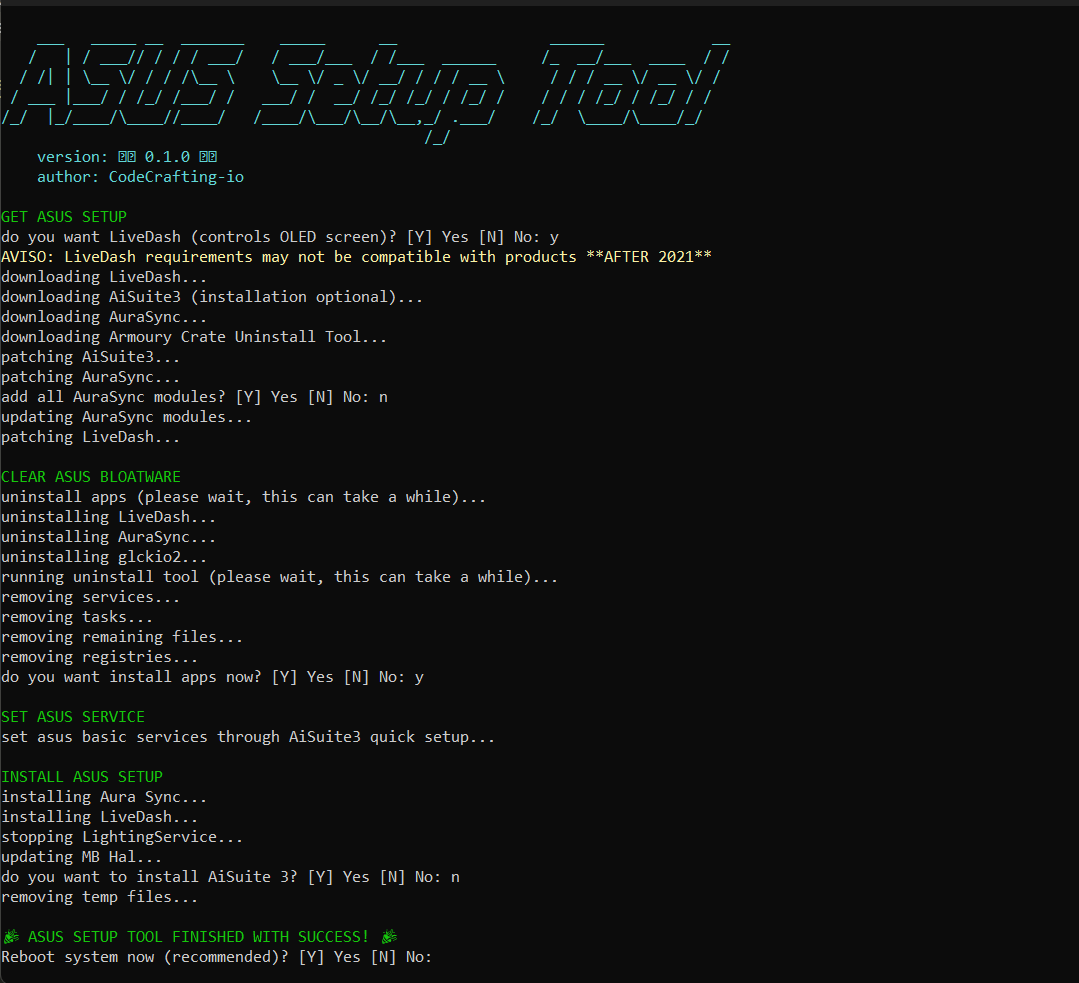
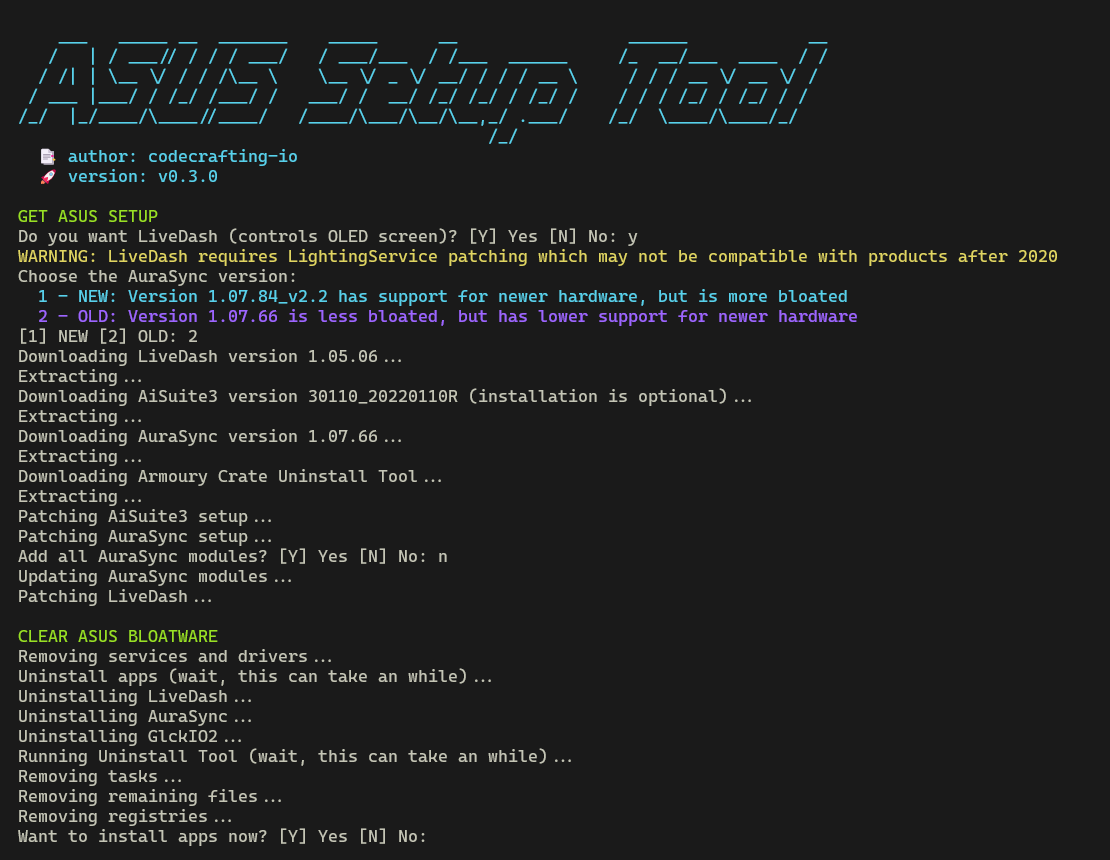
Update README docs and add optional setup for AuraSync

Changed region(s): [[0.0, 0.0302, 0.9481, 0.9977], [0.5505, 0.0302, 0.734, 0.1512]]

diff --git a/README.md b/README.md
@@ -5,7 +5,7 @@
 [![GitHub Release](https://img.shields.io/github/v/tag/codecrafting-io/asus-setup-tool?label=version)](https://github.com/codecrafting-io/asus-setup-tool/releases)
 [![Issues](https://img.shields.io/github/issues/codecrafting-io/asus-setup-tool)](https://github.com/codecrafting-io/asus-setup-tool/issues)
 
-This is an PowerShell script tool that manages the setup installation for the legacy [Aura Sync](https://www.ASUS.com/campaign/aura), LiveDash, [AiSuite3](https://www.youtube.com/watch?v=MVS2Bx8Uofg), to FINNALY resolve installation errors on Windows 11. With this tool, you will:
+This is an PowerShell script tool that manages the setup installation for the legacy [Aura Sync](https://www.ASUS.com/campaign/aura), LiveDash, [AiSuite3](https://www.youtube.com/watch?v=MVS2Bx8Uofg), to FINNALY resolve installation errors on **Windows 10/11**. With this tool, you will:
 
 - Download Aura Sync, LiveDash, AiSuite3 directly from ASUS site.
 - Proper uninstall all ASUS products and pieces of software, including Armoury Crate.
@@ -13,15 +13,14 @@ This is an PowerShell script tool that manages the setup installation for the le
 - Choose which modules from Aura Sync you want.
 - Install Aura Sync, LiveDash (optional), AiSuite 3 (optional).
 
-**NOTE: This tool was only tested for Windows 11 and may not work on Windows 10.**
-
 ## Instructions
 
 **NOTE: Before you proceed, note that this tool is experimental, still in early stages, provided as is and may not work or require manual tweaking.**
 
 - Create a System Restore point (recommended), [Instructions Here](https://support.microsoft.com/en-us/windows/create-a-system-restore-point-77e02e2a-3298-c869-9974-ef5658ea3be9#:~:text=In%20the%20search%20box%20on,and%20then%20select%20Create%20%3E%20OK.)
-- Download [ASUS Setup Tool here](/../../archive/refs/tags/v0.2.2.zip).
+- Download [ASUS Setup Tool here](/../../archive/refs/tags/v0.3.0.zip).
 - Extract the zip contents to a folder.
+- The [Windows core insolation](https://www.makeuseof.com/core-isolation-memory-integrity-windows/#:~:text=On%20the%20left%20side%20menu%20of%20the%20Windows%20Security%20app,the%20changes%20to%20take%20effect.) can interfere with the operation of ASUS Kernel drivers, so you may have to disable it.
 - If you have a third party antivirus, you **may have to add the setup to exclusions, disable or even uninstall it**, specially if it is a Kaspersky product. After this reboot the system and then proceed. You can re-enable/re-install the antivirus later.
 - Right click on `setup.bat` and `run as administrator`.
 - For question prompts, `[Y] Yes [N] No` just type `Y` or `N` followed by `ENTER`
@@ -29,33 +28,39 @@ This is an PowerShell script tool that manages the setup installation for the le
 
     ![ASUS Setup Tool first screen](/Source/Images/screen1.png?raw=true)
 
-  - In case you see an "PowerShell file script policy execution is disabled", type `[ENTER]` to open an new POWERSHELL window with the execution policy set to `RemoteSigned` for the process scope, still allowing to execute the setup, like in the screen below:
+  - In case you see an "PowerShell file script policy execution is disabled", type `[ENTER]` to open an new POWERSHELL window with the execution policy set to `Bypass` for the process scope, still allowing to execute the setup, like in the screen below:
 
-    ![ASUS Setup Tool first screen](/Source/Images/screen7.png?raw=true)
+    ![ASUS Setup Tool powershell execution policy](/Source/Images/screen2.png?raw=true)
 
-- Choose if you want to install LiveDash. **Note that the installation of LiveDash implies using older Aura Sync dependencies, which may be incompatible with products released after 2020. This will also affect AuraSync installation.**
+- Choose if you want to install LiveDash. **The installation of LiveDash requires patching LightingService, which may lead to incompatibility for products launched after 2020. This will also affect AuraSync installation.**
+- Choose which version of AuraSync you want, by typing `1` or `2`:
+  - 1 - NEW: Version **1.07.84_v2.2** if you want latest hardware support available, but this version has more bloated modules, which leads to more processes running on the system.
+  - 2 - OLD: Version **1.07.66** has a less bloated module installation, but with lower support for newer hardware.
+
+    ![ASUS Setup Tool AuraSync version](/Source/Images/screen3.png?raw=true)
+
 - The tools LiveDash (if you chose), AuraSync, AiSuite 3, Armoury Uninstall Tool will be downloaded. The AiSuite3 is downloaded for correctly setting some services, but installation is optional.
 - After the download and patches applied, you should see an option to choose which AuraSync modules you want to add. Mark the checkboxes for the modules you want. AuraSync have a modular component design to control a variety of devices. By the default, the setup will install all modules even if you don't have the device. If you want a cleaner installation, you can check here which modules are relevant for your case. If you type `N` you should see the following screens:
 
-    ![ASUS Setup Tool add modules](/Source/Images/screen2.png?raw=true)
+    ![ASUS Setup Tool add modules](/Source/Images/screen4.png?raw=true)
 
-  - Some modules for brand specific is usually to control RGB Ram with AuraSync. If you don't want to use AuraSync to control them, don't check.
-- The uninstallation of all ASUS products will begin. This **will remove any related ASUS Software!**. During the uninstallation, the Armoury Crate Uninstall window will show up. This **process can take several minutes, please wait**.
+- Some brand specific modules is usually to control RGB Ram with AuraSync. If you don't want to use AuraSync to control them, don't check it. However if you want to control the RAM you need to check "RAM" + the specific brand module if exist.
+- The uninstallation of all ASUS products will begin. This **will remove any related ASUS Software!**. During the uninstallation, the Armoury Crate Uninstall Tool window will show up. This **process can take several minutes, please wait**.
 - After uninstallation, you should choose if you want to install the apps now. Use this if you only wanted to uninstall ASUS software.
 
-    ![ASUS Setup Tool installation step](/Source/Images/screen3.png?raw=true)
+    ![ASUS Setup Tool installation step](/Source/Images/screen5.png?raw=true)
 
-- Choose if you want to install AiSuite3. Notice that if you had AiSuite3 installed prior to executing ASUS Setup Tool, a reboot is required to proceed with manual installation. In this case, you can find AiSuite3 inside `Apps` folder.
-
-    ![ASUS Setup Tool AiSuite 3 installation](/Source/Images/screen4.png?raw=true)
-
+- Choose if you want to install AuraSync. Use this if you only want to install AiSuite3.
+- Choose if you want to install AiSuite3. Notice that if you had AiSuite3 installed prior to executing ASUS Setup Tool, a reboot is required. You can install manually later. In this case, you can find AiSuite3 inside `Apps` folder.
 - You can choose to reboot system now (recommended) or later
 
-    ![ASUS Setup Tool AiSuite 3 reboot](/Source/Images/screen5.png?raw=true)
+    ![ASUS Setup Tool AiSuite 3 reboot](/Source/Images/screen6.png?raw=true)
 
 - Finally, if everything went well you now have a functional installation of AuraSync, LiveDash or AiSuite 3!
 
-    ![ASUS Setup Tool Finished with success](https://www.memesmonkey.com/images/memesmonkey/ba/ba0418a6baea139993fc38eb95f5da04.jpeg)
+    ![ASUS Setup Tool Finished](/Source/Images/screen7.png?raw=true)
+
+    ![Yea Baby](https://www.memesmonkey.com/images/memesmonkey/ba/ba0418a6baea139993fc38eb95f5da04.jpeg)
 
 ## Automatic set of profiles
 
@@ -69,18 +74,17 @@ Some of known issues:
 - AuraSync is not opening: This is due to `LightingService` not running or even not installed.
   - Reboot the system.
   - Go to the `Apps\AuraSync` folder of the ASUS Setup Tool and locate the `AuraServiceSetup.exe` file inside `LightingService` folder.
-  - Run the setup to check if shows a button with `uninstall`. If so, uninstall and rerun the ASUS Setup Tool again.
+  - Run the setup to check if shows a button with `uninstall`. If so, uninstall it and rerun the ASUS Setup Tool again.
 
-    ![ASUS Setup Tool LightingService uninstall](/Source/Images/screen6.png?raw=true)
+    ![ASUS Setup Tool LightingService uninstall](/Source/Images/screen8.png?raw=true)
 
 - Aura Sync failed to install: This usually happens due to failure of installation of `LightingService`. Reboot the system and run ASUS Setup Tool again.
 - Waiting to service stop: Sometimes some services or running drivers don't have an easy stop during the uninstallation. Reboot the system and try again.
 - The InstallShield Engine could not be installed: This likely happens during the uninstallation of one of the Apps, as a result of setup interruption or failure to uninstall. Click ok and then proceed. This won't interfere on uninstallation.
-- The `GET ASUS SETUP` fails: This usually happens due to changing a setup from with to without LiveDash or vice versa. Just try again.
-- The `SET ASUS SERVICE` fails: Reboot the system and try again. You may have to disable or uninstall the antivirus.
-- The [Windows core insolation](https://www.makeuseof.com/core-isolation-memory-integrity-windows/#:~:text=On%20the%20left%20side%20menu%20of%20the%20Windows%20Security%20app,the%20changes%20to%20take%20effect.) can interphere with the operation of ASUS Kernerl drivers.
+- The `GET ASUS SETUP` fails: This can happen if you interrupt the process and tried again later. Just run Asus Setup again.
+- The `SET ASUS SERVICE` fails: Reboot the system and try again. You may have to disable or uninstall the antivirus or Windows core isolation.
 
-If you still have errors using the tool, open a PowerShell as a Administrator, navigate to the directory where you extract the tool, type the command `$global:DebugPreference = 'Continue'` and then `.\Setup.bat` to run ASUS Setup Tool. Copy the text for a `.txt` file and open a issue.
+If you still have errors using the tool, open a PowerShell as a Administrator, navigate to the directory where you extract the tool, type the command `$global:DebugPreference = 'Continue'` and then `.\Setup.bat` to run ASUS Setup Tool. Copy the text for a `.txt` file and open an issue.
 
 ## Settings
 
@@ -95,6 +99,7 @@ One of the main issues of ASUS software, it's the **dependency nightmare**. Mult
 - ASUS COM Service (atkexCom, aka AXSP)
 - ASUS Cert Service
 - AsIO 2 and 3 Kernel Drivers
+- LightingService Windows service
 
 In the past the ASUS Cert Service did not exist, but after the [vulnerabilities](https://syscall.eu/blog/2020/03/30/asus_gio/) and the [Signature SSL Key was compromised](https://www.vice.com/en/article/pan9wn/hackers-hijacked-asus-software-updates-to-install-backdoors-on-thousands-of-computers), ASUS created this extra service in an attempt to mitigate the issues. So on specially Windows 11 ASUS Com Service that used to come on older AuraSync setups stopped from working.
 
@@ -102,7 +107,7 @@ Knowing this, what is done here was:
 
 - Create a better consistent dependency services and assets, for ASIO, AXSP, using the latest files from Armoury Crate installation. You can find them on `Patches` folder
 - Proper setup of AXSP and AsusCertService before AuraSync/LiveDash installation. The easiest way found was just launching the AiSuite 3 setup. When launched, both services are installed, even if you don't do anything in the wizard setup. The ASUS Setup quickly launches the AiSuite 3 after being patched and as soon the wizard opens the services are installed and setup can be closed.
-- LiveDash was the hardest to understand, and the solution found still not optimal but functional. The problem of installing LiveDash after or before AuraSync is that it is very likely you see a message like `ASUS's device no found !!` or the App won't even open. After decompiling the application, it was noticed that was related to the LightingService and MBIsSupported.dll, but not entirely. This section inside `MainWindow.xaml.cs` is key for LiveDash function:
+- Patch LightingService to work with LiveDash. In case you install LiveDash, is necessary to replace the file `MBIsSupported.dll` for the LightingService present on version 1.07.60. Without that patching, it is very likely you see a message like `ASUS's device no found !!` or the App won't even open. After decompiling the application, it was noticed that was related to the LightingService and MBIsSupported.dll. This section inside `MainWindow.xaml.cs` is key for LiveDash function:
 
     ```c#
     private void GetCOMService()
@@ -128,9 +133,10 @@ Knowing this, what is done here was:
     }
     ```
 
-- This will determine what kind of device you have installed, and despite AuraSync may work and detect the products, LiveDash won't. If the `Oled_GetCapability` returns an XML with `<AsusMB>0</AsusMB>` the LiveDash won't work or even open for motherboard products. In order to "fix this" it was necessary to get the older `AuraServiceSetup.exe` aka LightingService, and most importantly the `AacMBSetup.exe` from [AuraSync 1.07.22](https://www.reddit.com/r/ASUS/comments/eh1ouk/asus_aura_archived_versions/).
-- The older `AacMBSetup.exe` and `AuraServiceSetup.exe` replaces the existing setups inside AuraSync before installation. Strangely enough the main components of `AacMBSetup.exe` are the dlls `Aac3572MbHal` and they aren't the cause of incompatibility, so because of this the newer `AacMBSetup.exe` is reinstalled after to make AuraSync functions properly. The key thing here is something is register in the system using the old `AacMBSetup.exe` which makes LiveDash work, even if it doesn't depend on the main libraries.
-In addition to this, the old `LightingService.exe` is also required to LiveDash actually works, not just launch.
+- This will determine what kind of device you have installed, and despite AuraSync may work and detect the products, LiveDash won't. If the `Oled_GetCapability` returns an XML with `<AsusMB>0</AsusMB>` the LiveDash won't work or even open for motherboard products.
+- To "fix this" it is necessary to set the AXSP, ASIO2/ASIO3 first, update the MBIsSupported.dll, and an older ASIO have to be installed in SysWOW64 drivers, which can be done in the "Io" folder inside LiveDash setup. This Io folder contains ASIO2, but a different one, so not all of them are installed when ASIO2 already is, resulting in only installing ASIO inside SysWOW64.
+- To get the older AuraSync 1.07.60 was found in [this link](https://www.reddit.com/r/ASUS/comments/eh1ouk/asus_aura_archived_versions/).
+- I believe that replacing the MBIsSupported.dll may result in incompatibility with newer Motherboards released after 2020, but I can't test this.
 
 ## Final considerations
 
@@ -140,4 +146,4 @@ It's not necessary to leave `LightingService`, `ASUS COM Service` running all th
 
 This tool was making in the feeling of **REALLY NOT LIKING ARMOURY CRATE**. I hope this helps to finally bring some balance to the force 😁
 
-> Made with :heart: by [@lucasmarotta](https://github.com/lucasmarotta).
+> Made with :heart: by [@lucasmarotta](https://github.com/lucasmarotta)
